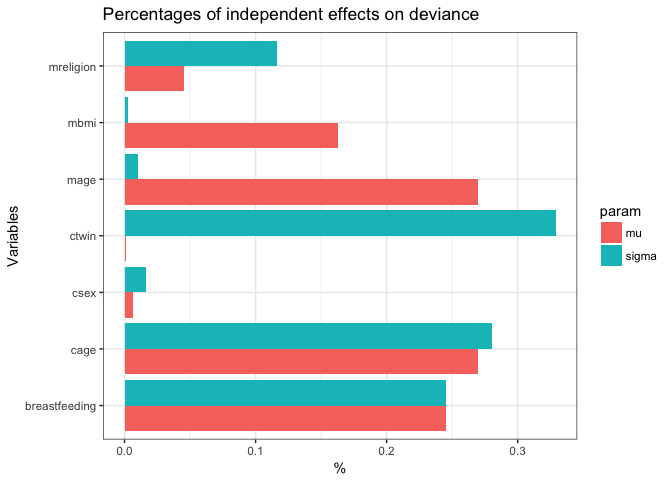
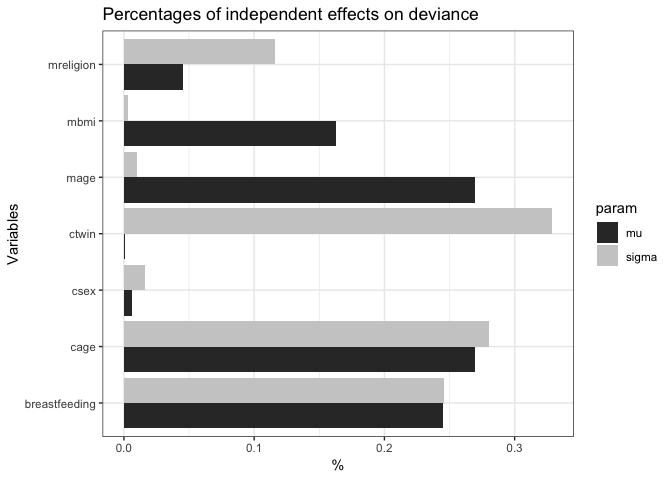
New gamlss families implemented

diff --git a/README.md b/README.md
@@ -9,9 +9,9 @@ Status](https://travis-ci.org/Stan125/ghp.svg?branch=master)](https://travis-ci.
 GHP stands for General Hierarchical Partitioning. `ghp` is an
 implementation of the technique of hierarchical partitioning first
 mentioned by Chevan and Sutherland (1991). This method fits all possible
-models for a set of covariates and then extracts a goodness of fit (e.g.
-\(R^2\) for linear models) to obtain independent and joint contributions
-of the independent variables on the selected figure.
+models for a set of covariates and then extracts a goodness of fit
+(e.g. \(R^2\) for linear models) to obtain independent and joint
+contributions of the independent variables on the selected figure.
 
 This package is an extension of the `hier.part` R package, developed by
 C. Walsh and R. Mac Nally in 2003. While `hier.part` is fast and simple
@@ -40,16 +40,16 @@ results_lm <- ghp(depname = "stunting", india, method = "lm", gof = "r.squared")
 results_lm
 #> $results
 #> # A tibble: 7 x 7
-#>   var           param indep_effects joint_effects total_effects indep_perc
-#>   <chr>         <chr>         <dbl>         <dbl>         <dbl>      <dbl>
-#> 1 cage          mu        0.0323        0.0123        0.0446      0.269   
-#> 2 csex          mu        0.000746     -0.000167      0.000579    0.00623 
-#> 3 breastfeeding mu        0.0295        0.0166        0.0461      0.246   
-#> 4 ctwin         mu        0.0000974    -0.0000199     0.0000775   0.000814
-#> 5 mage          mu        0.0322        0.00878       0.0410      0.269   
-#> 6 mbmi          mu        0.0196        0.00872       0.0283      0.164   
-#> 7 mreligion     mu        0.00538       0.000626      0.00600     0.0449  
-#> # ... with 1 more variable: joint_perc <dbl>
+#>   var   param indep_effects joint_effects total_effects indep_perc
+#>   <chr> <chr>         <dbl>         <dbl>         <dbl>      <dbl>
+#> 1 cage  mu        0.0323        0.0123        0.0446      0.269   
+#> 2 csex  mu        0.000746     -0.000167      0.000579    0.00623 
+#> 3 brea… mu        0.0295        0.0166        0.0461      0.246   
+#> 4 ctwin mu        0.0000974    -0.0000199     0.0000775   0.000814
+#> 5 mage  mu        0.0322        0.00878       0.0410      0.269   
+#> 6 mbmi  mu        0.0196        0.00872       0.0283      0.164   
+#> 7 mrel… mu        0.00538       0.000626      0.00600     0.0449  
+#> # … with 1 more variable: joint_perc <dbl>
 #> 
 #> $npar
 #> [1] 1
@@ -62,17 +62,17 @@ results_lm
 #> 
 #> $joint_results
 #> # A tibble: 8 x 15
-#>   var       cage     csex breastfeeding    ctwin    mage    mbmi mreligion
-#> * <fct>    <dbl>    <dbl>         <dbl>    <dbl>   <dbl>   <dbl>     <dbl>
-#> 1 cage   0        1.74e⁻⁵       0.00404  3.57e⁻⁶ 0.00140 9.85e⁻⁴   2.53e⁻⁴
-#> 2 csex   0.00180  0             0.00237 -1.12e⁻⁶ 0.00128 1.18e⁻³   7.06e⁻⁵
-#> 3 breas… 0.00343 -3.08e⁻⁵       0        2.86e⁻⁶ 0.00139 1.77e⁻³   1.41e⁻⁴
-#> 4 ctwin  0.00177 -2.21e⁻⁵       0.00238  0       0.00126 1.22e⁻³   8.88e⁻⁵
-#> 5 mage   0.00191  1.23e⁻⁶       0.00251  3.11e⁻⁶ 0       2.30e⁻³  -3.25e⁻⁵
-#> 6 mbmi   0.00150 -8.99e⁻⁵       0.00289 -2.49e⁻⁵ 0.00231 0         1.05e⁻⁴
-#> 7 mreli… 0.00193 -4.27e⁻⁵       0.00243 -3.44e⁻⁶ 0.00113 1.26e⁻³   0      
-#> 8 SUM    0.0123  -1.67e⁻⁴       0.0166  -1.99e⁻⁵ 0.00878 8.72e⁻³   6.26e⁻⁴
-#> # ... with 7 more variables: cage_perc <dbl>, csex_perc <dbl>,
+#>   var      cage     csex breastfeeding    ctwin    mage    mbmi mreligion
+#>   <fct>   <dbl>    <dbl>         <dbl>    <dbl>   <dbl>   <dbl>     <dbl>
+#> 1 cage  0        1.74e-5       0.00404  3.57e-6 0.00140 9.85e-4   2.53e-4
+#> 2 csex  0.00180  0.            0.00237 -1.12e-6 0.00128 1.18e-3   7.06e-5
+#> 3 brea… 0.00343 -3.08e-5       0        2.86e-6 0.00139 1.77e-3   1.41e-4
+#> 4 ctwin 0.00177 -2.21e-5       0.00238  0.      0.00126 1.22e-3   8.88e-5
+#> 5 mage  0.00191  1.23e-6       0.00251  3.11e-6 0       2.30e-3  -3.25e-5
+#> 6 mbmi  0.00150 -8.99e-5       0.00289 -2.49e-5 0.00231 0.        1.05e-4
+#> 7 mrel… 0.00193 -4.27e-5       0.00243 -3.44e-6 0.00113 1.26e-3   0.     
+#> 8 SUM   0.0123  -1.67e-4       0.0166  -1.99e-5 0.00878 8.72e-3   6.26e-4
+#> # … with 7 more variables: cage_perc <dbl>, csex_perc <dbl>,
 #> #   breastfeeding_perc <dbl>, ctwin_perc <dbl>, mage_perc <dbl>,
 #> #   mbmi_perc <dbl>, mreligion_perc <dbl>
 #> 
@@ -83,7 +83,7 @@ results_lm
 The first dataframe captures the actual mean influence of the variable
 on the goodness-of-fit. Also, joint effects are calculated. The second
 dataframe shows the percentage influence. We can see that `cage` has the
-highest influence with (~43%).
+highest influence with (\~43%).
 
 ## Example: Partitioning of deviance in gamlss models
 
@@ -98,23 +98,23 @@ results_gamlss <- ghp("stunting", india, method = "gamlss",
 results_gamlss
 #> $results
 #> # A tibble: 14 x 7
-#>    var          param indep_effects joint_effects total_effects indep_perc
-#>    <chr>        <chr>         <dbl>         <dbl>         <dbl>      <dbl>
-#>  1 cage         mu         -13.3         -4.35        -17.6       0.269   
-#>  2 csex         mu         - 0.309        0.0854      - 0.224     0.00628 
-#>  3 breastfeedi… mu         -12.1         -6.14        -18.2       0.245   
-#>  4 ctwin        mu         - 0.0396       0.00969     - 0.0299    0.000804
-#>  5 mage         mu         -13.3         -2.87        -16.2       0.270   
-#>  6 mbmi         mu         - 8.03        -3.05        -11.1       0.163   
-#>  7 mreligion    mu         - 2.23        -0.0941      - 2.32      0.0453  
-#>  8 cage         sigma      - 9.96        -2.14        -12.1       0.280   
-#>  9 csex         sigma      - 0.577        0.0372      - 0.540     0.0162  
-#> 10 breastfeedi… sigma      - 8.73        -1.01        - 9.74      0.246   
-#> 11 ctwin        sigma      -11.7          2.47        - 9.23      0.329   
-#> 12 mage         sigma      - 0.360        0.290       - 0.0696    0.0101  
-#> 13 mbmi         sigma      - 0.100        0.0936      - 0.00681   0.00282 
-#> 14 mreligion    sigma      - 4.13         1.19        - 2.94      0.116   
-#> # ... with 1 more variable: joint_perc <dbl>
+#>    var   param indep_effects joint_effects total_effects indep_perc
+#>    <chr> <chr>         <dbl>         <dbl>         <dbl>      <dbl>
+#>  1 cage  mu         -13.3         -4.35        -17.6       0.269   
+#>  2 csex  mu          -0.309        0.0854       -0.224     0.00628 
+#>  3 brea… mu         -12.1         -6.14        -18.2       0.245   
+#>  4 ctwin mu          -0.0396       0.00969      -0.0299    0.000804
+#>  5 mage  mu         -13.3         -2.87        -16.2       0.270   
+#>  6 mbmi  mu          -8.03        -3.05        -11.1       0.163   
+#>  7 mrel… mu          -2.23        -0.0941       -2.32      0.0453  
+#>  8 cage  sigma       -9.96        -2.14        -12.1       0.280   
+#>  9 csex  sigma       -0.577        0.0372       -0.540     0.0162  
+#> 10 brea… sigma       -8.73        -1.01         -9.74      0.246   
+#> 11 ctwin sigma      -11.7          2.47         -9.23      0.329   
+#> 12 mage  sigma       -0.360        0.290        -0.0696    0.0101  
+#> 13 mbmi  sigma       -0.100        0.0936       -0.00681   0.00282 
+#> 14 mrel… sigma       -4.13         1.19         -2.94      0.116   
+#> # … with 1 more variable: joint_perc <dbl>
 #> 
 #> $npar
 #> [1] 2
@@ -128,33 +128,33 @@ results_gamlss
 #> $joint_results
 #> $joint_results$res_mu
 #> # A tibble: 8 x 15
-#>   var         cage     csex breastfeeding    ctwin   mage   mbmi mreligion
-#> * <fct>      <dbl>    <dbl>         <dbl>    <dbl>  <dbl>  <dbl>     <dbl>
-#> 1 cage       0     -0.00400        -1.53  -1.10e⁻³ -0.433 -0.302  -0.0747 
-#> 2 csex      -0.637  0              -0.873  7.02e⁻⁴ -0.420 -0.409  -0.00566
-#> 3 breastfe… -1.27   0.0158          0     -8.18e⁻⁴ -0.429 -0.628  -0.0279 
-#> 4 ctwin     -0.624  0.0115         -0.879  0       -0.413 -0.427  -0.0132 
-#> 5 mage      -0.644  0.00257        -0.896 -9.37e⁻⁴  0     -0.849   0.0430 
-#> 6 mbmi      -0.486  0.0395         -1.07   1.02e⁻² -0.823  0      -0.0156 
-#> 7 mreligion -0.682  0.0200         -0.891  1.60e⁻³ -0.354 -0.438   0      
-#> 8 SUM       -4.35   0.0854         -6.14   9.69e⁻³ -2.87  -3.05   -0.0941 
-#> # ... with 7 more variables: cage_perc <dbl>, csex_perc <dbl>,
+#>   var     cage     csex breastfeeding    ctwin   mage   mbmi mreligion
+#>   <fct>  <dbl>    <dbl>         <dbl>    <dbl>  <dbl>  <dbl>     <dbl>
+#> 1 cage   0     -0.00400        -1.53  -1.10e-3 -0.433 -0.302  -0.0747 
+#> 2 csex  -0.637  0              -0.873  7.02e-4 -0.420 -0.409  -0.00566
+#> 3 brea… -1.27   0.0158          0     -8.18e-4 -0.429 -0.628  -0.0279 
+#> 4 ctwin -0.624  0.0115         -0.879  0.      -0.413 -0.427  -0.0132 
+#> 5 mage  -0.644  0.00257        -0.896 -9.37e-4  0     -0.849   0.0430 
+#> 6 mbmi  -0.486  0.0395         -1.07   1.02e-2 -0.823  0      -0.0156 
+#> 7 mrel… -0.682  0.0200         -0.891  1.60e-3 -0.354 -0.438   0      
+#> 8 SUM   -4.35   0.0854         -6.14   9.69e-3 -2.87  -3.05   -0.0941 
+#> # … with 7 more variables: cage_perc <dbl>, csex_perc <dbl>,
 #> #   breastfeeding_perc <dbl>, ctwin_perc <dbl>, mage_perc <dbl>,
 #> #   mbmi_perc <dbl>, mreligion_perc <dbl>
 #> 
 #> $joint_results$res_sigma
 #> # A tibble: 8 x 15
-#>   var            cage    csex breastfeeding ctwin   mage    mbmi mreligion
-#> * <fct>         <dbl>   <dbl>         <dbl> <dbl>  <dbl>   <dbl>     <dbl>
-#> 1 cage          0     0.00701      -0.588   0.497 0.0424 0.0123      0.162
-#> 2 csex         -0.304 0            -0.145   0.352 0.0388 0.0128      0.178
-#> 3 breastfeedi… -0.750 0.00498       0       0.521 0.0316 0.0163      0.308
-#> 4 ctwin        -0.161 0.00491       0.0243  0     0.0669 0.0284      0.169
-#> 5 mage         -0.305 0.00264      -0.154   0.378 0      0.00911     0.202
-#> 6 mbmi         -0.307 0.00478      -0.141   0.367 0.0372 0           0.171
-#> 7 mreligion    -0.314 0.0129       -0.00579 0.351 0.0732 0.0147      0    
-#> 8 SUM          -2.14  0.0372       -1.01    2.47  0.290  0.0936      1.19 
-#> # ... with 7 more variables: cage_perc <dbl>, csex_perc <dbl>,
+#>   var     cage    csex breastfeeding ctwin   mage    mbmi mreligion
+#>   <fct>  <dbl>   <dbl>         <dbl> <dbl>  <dbl>   <dbl>     <dbl>
+#> 1 cage   0     0.00701      -0.588   0.497 0.0424 0.0123      0.162
+#> 2 csex  -0.304 0            -0.145   0.352 0.0388 0.0128      0.178
+#> 3 brea… -0.750 0.00498       0       0.521 0.0316 0.0163      0.308
+#> 4 ctwin -0.161 0.00491       0.0243  0     0.0669 0.0284      0.169
+#> 5 mage  -0.305 0.00264      -0.154   0.378 0      0.00911     0.202
+#> 6 mbmi  -0.307 0.00478      -0.141   0.367 0.0372 0           0.171
+#> 7 mrel… -0.314 0.0129       -0.00579 0.351 0.0732 0.0147      0    
+#> 8 SUM   -2.14  0.0372       -1.01    2.47  0.290  0.0936      1.19 
+#> # … with 7 more variables: cage_perc <dbl>, csex_perc <dbl>,
 #> #   breastfeeding_perc <dbl>, ctwin_perc <dbl>, mage_perc <dbl>,
 #> #   mbmi_perc <dbl>, mreligion_perc <dbl>
 #> 
@@ -182,11 +182,11 @@ results_groups <- ghp(depname = "stunting", india, method = "lm", gof = "r.squar
 results_groups
 #> $results
 #> # A tibble: 2 x 7
-#>   var    param indep_effects joint_effects total_effects indep_perc
-#>   <chr>  <chr>         <dbl>         <dbl>         <dbl>      <dbl>
-#> 1 child  mu           0.0332        0.0116        0.0447      0.277
-#> 2 mother mu           0.0866        0.0116        0.0981      0.723
-#> # ... with 1 more variable: joint_perc <dbl>
+#>   var   param indep_effects joint_effects total_effects indep_perc
+#>   <chr> <chr>         <dbl>         <dbl>         <dbl>      <dbl>
+#> 1 child mu           0.0332        0.0116        0.0447      0.277
+#> 2 moth… mu           0.0866        0.0116        0.0981      0.723
+#> # … with 1 more variable: joint_perc <dbl>
 #> 
 #> $npar
 #> [1] 1
@@ -200,10 +200,10 @@ results_groups
 #> $joint_results
 #> # A tibble: 3 x 5
 #>   var     child mother child_perc mother_perc
-#> * <fct>   <dbl>  <dbl>      <dbl>       <dbl>
-#> 1 child  0      0.0116       0           1.00
-#> 2 mother 0.0116 0            1.00        0   
-#> 3 SUM    0.0116 0.0116       1.00        1.00
+#>   <fct>   <dbl>  <dbl>      <dbl>       <dbl>
+#> 1 child  0      0.0116          0           1
+#> 2 mother 0.0116 0               1           0
+#> 3 SUM    0.0116 0.0116          1           1
 #> 
 #> attr(,"class")
 #> [1] "part"
@@ -224,7 +224,8 @@ plot_ghp(results_lm)
 ![](figures/barplot-1.png)<!-- -->
 
 ``` r
-plot_ghp(results_gamlss)
+plot_ghp(results_gamlss) +
+  ggplot2::scale_fill_grey()
 ```
 
 ![](figures/barplot-2.png)<!-- -->
@@ -242,14 +243,14 @@ ghp <- function()
   ghp::ghp("stunting", india, method = "lm", gof = "r.squared")
 microbenchmark::microbenchmark(hp, ghp)
 #> Unit: nanoseconds
-#>  expr min lq  mean median uq max neval
-#>    hp  29 30 35.94     30 31 599   100
-#>   ghp  29 30 39.02     30 31 813   100
+#>  expr min lq  mean median uq  max neval
+#>    hp  29 30 56.78     31 32 2585   100
+#>   ghp  29 30 39.26     31 32  801   100
 ```
 
 This README.Rmd was run on:
 
 ``` r
 date()
-#> [1] "Wed Feb 28 11:20:55 2018"
+#> [1] "Wed Feb  6 10:41:55 2019"
 ```
